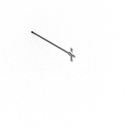
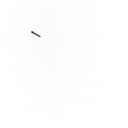
draw a power line over water the way it runs, and a pole's shadow short and straight: the rules lay 209 for an east-west line over water and 208 for a north-south one, so their art and join donors swap, and a short stand-in at the pole's foot casts its shadow in place of the pole and crossarm

Changed region(s): [[0.3125, 0.2812, 0.5938, 0.5]]

diff --git a/art/blender/tilesets.py b/art/blender/tilesets.py
@@ -374,6 +374,7 @@ def lanes(sides):
 WIRE_Z = {'NS': 0.55, 'EW': 0.51}
 ARM = 0.085      # a crossarm's half-length, the outer wires' distance from the middle
 WIRE_R = 0.005
+POLE_SHADOW_Z = 0.1   # the height of the stand-in that casts a pole's shadow
 
 
 def power_materials():
@@ -391,7 +392,9 @@ def power_line(sides, pole=True, base=0.0):
     # lift, where the next tile's copy takes over (tileart.spans_edge). The wires cast no shadow,
     # as a wire that thin barely does in daylight: the shear lifts an east-west wire up the screen
     # and the sun drops its shadow down it, so a horizontal line would draw as two, its wires and
-    # their shadow more than half a tile apart. The poles keep their shadows.
+    # their shadow more than half a tile apart. Nor does the pole cast its own, which at the wires'
+    # height runs long and bends where the crossarm's joins it: a short stand-in at its foot casts
+    # a short, straight one.
     m = power_materials()
 
     def wire(p, q):
@@ -421,13 +424,15 @@ def power_line(sides, pole=True, base=0.0):
                 wire(p, q)
         if pole:
             ax, ay = across[0] * (ARM + 0.015), across[1] * (ARM + 0.015)
-            t.strut((0.5 - ax, 0.5 - ay, z - 0.012), (0.5 + ax, 0.5 + ay, z - 0.012), 0.008, m['pole'], 6)
+            arm = t.strut((0.5 - ax, 0.5 - ay, z - 0.012), (0.5 + ax, 0.5 + ay, z - 0.012), 0.008, m['pole'], 6)
+            arm.visible_shadow = False
             for offset in (-ARM, 0.0, ARM):
                 cx, cy = 0.5 + across[0] * offset, 0.5 + across[1] * offset
-                t.cylinder(cx, cy, z - 0.006, z, 0.007, m['insulator'], 8)
+                t.cylinder(cx, cy, z - 0.006, z, 0.007, m['insulator'], 8).visible_shadow = False
     if pole:
         top = base + max(WIRE_Z[axis] for axis, ends in runs.items() if ends) + 0.03
-        t.cylinder(0.5, 0.5, base, top, 0.012, m['pole'], 10)
+        t.cylinder(0.5, 0.5, base, top, 0.012, m['pole'], 10).visible_shadow = False
+        t.shadow_only(t.cylinder(0.5, 0.5, base, base + POLE_SHADOW_Z, 0.012, m['pole'], 10))
 
 
 # A railway is one track: ballast under sleepers under two rails. It all lies low enough to be

diff --git a/art/blender/tileart.py b/art/blender/tileart.py
@@ -308,7 +308,7 @@ def _cutout_size(cutout, length):
     return image, length * w / max(w, h), length * h / max(w, h)
 
 
-def _shadow_only(ob):
+def shadow_only(ob):
     # the object casts shadows but the camera never sees it, nor its reflection
     ob.visible_camera = False
     ob.visible_glossy = False
@@ -388,7 +388,7 @@ def car(name, x, y, turn, base=0.0):
     _card(cutout, x, y, base + height, max(w, d), turn)
     body = prism(rotated_rect(x, y, w * 0.85, d * 0.92, turn), base, base + height - 0.002,
                  _shadow_material(), name='car_body')
-    _shadow_only(body)
+    shadow_only(body)
 
 
 def lorry(x, y, turn, cab, body=None, kind='box', load=None, length=0.54):
@@ -545,7 +545,7 @@ def shrub(name, x, y, size, height, turn=0):
     mound.scale = (w * 0.42, d * 0.42, height - 0.002)
     mound.rotation_euler = (0, 0, math.radians(turn))
     mound.data.materials.append(_shadow_material())
-    _shadow_only(mound)
+    shadow_only(mound)
 
 
 def _shadow_material():

diff --git a/art/tools/paint.py b/art/tools/paint.py
@@ -117,7 +117,8 @@ DONORS = ([(single_tile(t), axes, layers) for t, axes, layers in (
     (LHRAIL, 'x', ('ground', 'objects')), (LVRAIL, 'y', ('ground', 'objects')),
     (HRAIL, 'x', ('objects',)), (VRAIL, 'y', ('objects',)),
     (LHPOWER, 'x', ('objects',)), (LVPOWER, 'y', ('objects',)),
-    (HPOWER, 'x', ('objects',)), (VPOWER, 'y', ('objects',)))]
+    # the rules lay HPOWER for a north-south line over water and VPOWER for an east-west one
+    (HPOWER, 'y', ('objects',)), (VPOWER, 'x', ('objects',)))]
           + [(single_tile(t), '', ('ground',)) for t in SINGLE_TILES['roads']['pieces']])
 WRAP_BAND = 12                 # pixels from a donor's edge over which it fades into its half-shifted copy
 FLATTEN = 2                    # pixels: the blur that finds a surface donor's broad patches (flattened())

diff --git a/art/blender/tiles/power.py b/art/blender/tiles/power.py
@@ -24,7 +24,8 @@ import tilesets as ts  # noqa: E402
 
 PIECES = {210: 'EW', 211: 'NS', 212: 'NE', 213: 'ES', 214: 'SW', 215: 'NW',
           216: 'NEW', 217: 'NES', 218: 'ESW', 219: 'NSW', 220: 'NESW'}
-OVER_WATER = {208: 'EW', 209: 'NS'}
+# The original's names run against its lines: the rules lay 209, VPOWER, for an east-west line over water
+OVER_WATER = {208: 'NS', 209: 'EW'}
 
 # the lightning bolt, in a unit square, drawn clockwise from its top
 BOLT = [(0.62, 1.0), (0.3, 0.45), (0.5, 0.45), (0.36, 0.0), (0.72, 0.58), (0.52, 0.58), (0.7, 1.0)]
